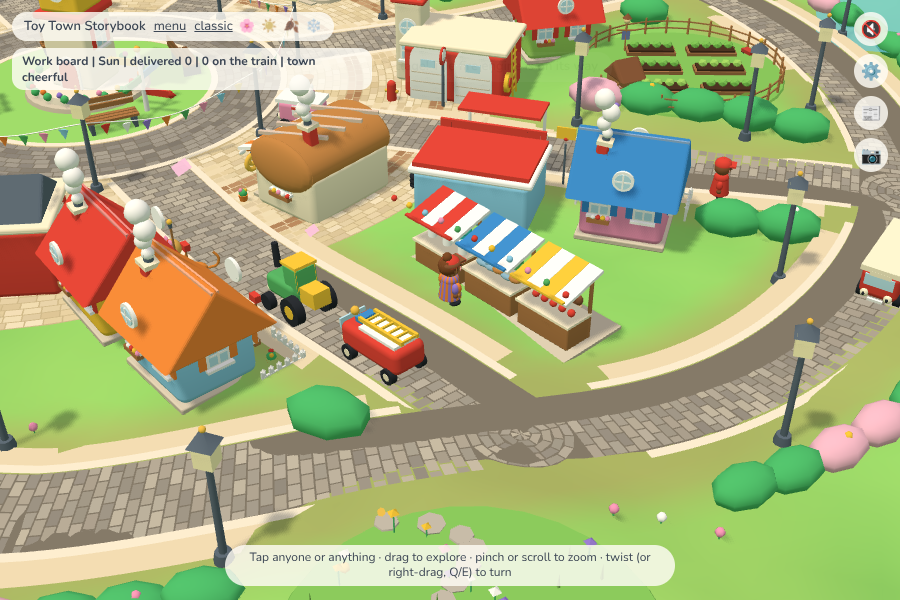
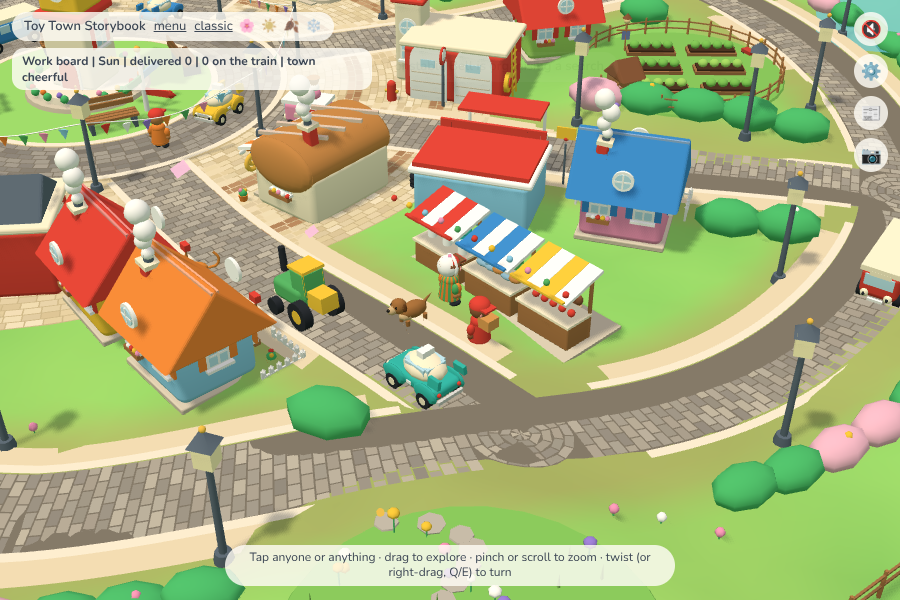
Toy Town Storybook: a steam train with turning wheels, richer stations, softer natural trees (#250)
* Toy Town: follow a resident, feed the ducks, gentle opt-in sound

- Press and hold a resident (mouse or touch, ~0.5 s) to follow them: the camera keeps them centred; a card shows a stable first name, their role and what they are doing; drag or ✕ stops.
- Tap the river: crumbs scatter and the ducks paddle over (they stay on the water).
- New assets/toy-town-sound.js: WebAudio-synthesised honk, bike bell, quack, chirps, balloon pop, hello chime and a sparse birdsong / cricket bed; off by default behind a remembered 🔈 toggle by the zoom controls; no sound files.
- Cache keys sim v31, 3D v50, embed v60.

Claude-Session: https://claude.ai/code/session_016DDzLFPb4BuxMAThu2pji2

* docs(toy-town): Claude DONE — follow, ducks, sound

Claude-Session: https://claude.ai/code/session_016DDzLFPb4BuxMAThu2pji2

* docs(toy-town): Claude START — Moments and real local weather

Claude-Session: https://claude.ai/code/session_016DDzLFPb4BuxMAThu2pji2

* Toy Town: no more gridlock, walkers' whims, Moments and real local weather

- Traffic can no longer deadlock: a mover stuck ~3 s with its own light green first runs out of patience (stops yielding, may edge past crossing traffic, never into its own lane), then turns round, then leaves town for a fresh arrival; only the front of a queue counts; two vehicles on the same spot no longer block each other. Deadlocks that froze ~24 movers for whole runs are gone (longest hold now a red light plus a short queue).
[…]

diff --git a/toy-town-new.html b/toy-town-new.html
@@ -81,49 +81,49 @@ html.ui-off #set,html.ui-off #panel,html.ui-off #paperBtn,html.ui-off #photoBtn,
 #dbg{position:fixed;left:calc(8px + env(safe-area-inset-left,0px));bottom:calc(8px + env(safe-area-inset-bottom,0px));padding:3px 8px;border-radius:8px;background:rgba(0,0,0,.6);color:#fff;font:600 11px/1.3 ui-monospace,Menlo,Consolas,monospace;pointer-events:none;z-index:9}
 html.ui-off #stack,html.ui-off #jobs,html.ui-off #toast,html.ui-off #snd,html.ui-off #chip,html.ui-off #hint,html.ui-off #story,html.ui-off #card{display:none}
 </style>
-<script type="importmap" data-stamp="10d77823ad">
+<script type="importmap" data-stamp="a96788d2c4">
 {"imports":{
   "three":"https://cdn.jsdelivr.net/npm/three@0.187.0/build/three.module.js",
   "three/addons/":"https://cdn.jsdelivr.net/npm/three@0.187.0/examples/jsm/",
-  "./assets/town2/angling.mjs":"./assets/town2/angling.mjs?v=10d77823ad",
-  "./assets/town2/build.mjs":"./assets/town2/build.mjs?v=10d77823ad",
-  "./assets/town2/chest.mjs":"./assets/town2/chest.mjs?v=10d77823ad",
-  "./assets/town2/chronicle.mjs":"./assets/town2/chronicle.mjs?v=10d77823ad",
-  "./assets/town2/curve.mjs":"./assets/town2/curve.mjs?v=10d77823ad",
-  "./assets/town2/def.mjs":"./assets/town2/def.mjs?v=10d77823ad",
-  "./assets/town2/director.mjs":"./assets/town2/director.mjs?v=10d77823ad",
-  "./assets/town2/ecology.mjs":"./assets/town2/ecology.mjs?v=10d77823ad",
-  "./assets/town2/events.mjs":"./assets/town2/events.mjs?v=10d77823ad",
-  "./assets/town2/festival.mjs":"./assets/town2/festival.mjs?v=10d77823ad",
-  "./assets/town2/festscene.mjs":"./assets/town2/festscene.mjs?v=10d77823ad",
-  "./assets/town2/gait.mjs":"./assets/town2/gait.mjs?v=10d77823ad",
-  "./assets/town2/garden.mjs":"./assets/town2/garden.mjs?v=10d77823ad",
-  "./assets/town2/graph.mjs":"./assets/town2/graph.mjs?v=10d77823ad",
-  "./assets/town2/inspect.mjs":"./assets/town2/inspect.mjs?v=10d77823ad",
-  "./assets/town2/limbs.mjs":"./assets/town2/limbs.mjs?v=10d77823ad",
-  "./assets/town2/lives.mjs":"./assets/town2/lives.mjs?v=10d77823ad",
-  "./assets/town2/memory.mjs":"./assets/town2/memory.mjs?v=10d77823ad",
-  "./assets/town2/mystery.mjs":"./assets/town2/mystery.mjs?v=10d77823ad",
-  "./assets/town2/nature.mjs":"./assets/town2/nature.mjs?v=10d77823ad",
-  "./assets/town2/needs.mjs":"./assets/town2/needs.mjs?v=10d77823ad",
-  "./assets/town2/paper.mjs":"./assets/town2/paper.mjs?v=10d77823ad",
-  "./assets/town2/quality.mjs":"./assets/town2/quality.mjs?v=10d77823ad",
-  "./assets/town2/saga.mjs":"./assets/town2/saga.mjs?v=10d77823ad",
-  "./assets/town2/sail.mjs":"./assets/town2/sail.mjs?v=10d77823ad",
-  "./assets/town2/settings.mjs":"./assets/town2/settings.mjs?v=10d77823ad",
-  "./assets/town2/sim.mjs":"./assets/town2/sim.mjs?v=10d77823ad",
-  "./assets/town2/sky.mjs":"./assets/town2/sky.mjs?v=10d77823ad",
-  "./assets/town2/smoke.mjs":"./assets/town2/smoke.mjs?v=10d77823ad",
-  "./assets/town2/sound.mjs":"./assets/town2/sound.mjs?v=10d77823ad",
-  "./assets/town2/stories.mjs":"./assets/town2/stories.mjs?v=10d77823ad",
-  "./assets/town2/track.mjs":"./assets/town2/track.mjs?v=10d77823ad",
-  "./assets/town2/treasure.mjs":"./assets/town2/treasure.mjs?v=10d77823ad",
-  "./assets/town2/vote.mjs":"./assets/town2/vote.mjs?v=10d77823ad",
-  "./assets/town2/weather.mjs":"./assets/town2/weather.mjs?v=10d77823ad",
-  "./assets/town2/weather3d.mjs":"./assets/town2/weather3d.mjs?v=10d77823ad",
-  "./assets/town2/wild3d.mjs":"./assets/town2/wild3d.mjs?v=10d77823ad",
-  "./assets/town2/wildlife.mjs":"./assets/town2/wildlife.mjs?v=10d77823ad",
-  "./assets/town2/wildscene.mjs":"./assets/town2/wildscene.mjs?v=10d77823ad"
+  "./assets/town2/angling.mjs":"./assets/town2/angling.mjs?v=a96788d2c4",
+  "./assets/town2/build.mjs":"./assets/town2/build.mjs?v=a96788d2c4",
+  "./assets/town2/chest.mjs":"./assets/town2/chest.mjs?v=a96788d2c4",
+  "./assets/town2/chronicle.mjs":"./assets/town2/chronicle.mjs?v=a96788d2c4",
+  "./assets/town2/curve.mjs":"./assets/town2/curve.mjs?v=a96788d2c4",
+  "./assets/town2/def.mjs":"./assets/town2/def.mjs?v=a96788d2c4",
+  "./assets/town2/director.mjs":"./assets/town2/director.mjs?v=a96788d2c4",
+  "./assets/town2/ecology.mjs":"./assets/town2/ecology.mjs?v=a96788d2c4",
+  "./assets/town2/events.mjs":"./assets/town2/events.mjs?v=a96788d2c4",
+  "./assets/town2/festival.mjs":"./assets/town2/festival.mjs?v=a96788d2c4",
+  "./assets/town2/festscene.mjs":"./assets/town2/festscene.mjs?v=a96788d2c4",
+  "./assets/town2/gait.mjs":"./assets/town2/gait.mjs?v=a96788d2c4",
+  "./assets/town2/garden.mjs":"./assets/town2/garden.mjs?v=a96788d2c4",
+  "./assets/town2/graph.mjs":"./assets/town2/graph.mjs?v=a96788d2c4",
+  "./assets/town2/inspect.mjs":"./assets/town2/inspect.mjs?v=a96788d2c4",
+  "./assets/town2/limbs.mjs":"./assets/town2/limbs.mjs?v=a96788d2c4",
+  "./assets/town2/lives.mjs":"./assets/town2/lives.mjs?v=a96788d2c4",
+  "./assets/town2/memory.mjs":"./assets/town2/memory.mjs?v=a96788d2c4",
+  "./assets/town2/mystery.mjs":"./assets/town2/mystery.mjs?v=a96788d2c4",
+  "./assets/town2/nature.mjs":"./assets/town2/nature.mjs?v=a96788d2c4",
+  "./assets/town2/needs.mjs":"./assets/town2/needs.mjs?v=a96788d2c4",
+  "./assets/town2/paper.mjs":"./assets/town2/paper.mjs?v=a96788d2c4",
+  "./assets/town2/quality.mjs":"./assets/town2/quality.mjs?v=a96788d2c4",
+  "./assets/town2/saga.mjs":"./assets/town2/saga.mjs?v=a96788d2c4",
+  "./assets/town2/sail.mjs":"./assets/town2/sail.mjs?v=a96788d2c4",
+  "./assets/town2/settings.mjs":"./assets/town2/settings.mjs?v=a96788d2c4",
+  "./assets/town2/sim.mjs":"./assets/town2/sim.mjs?v=a96788d2c4",
+  "./assets/town2/sky.mjs":"./assets/town2/sky.mjs?v=a96788d2c4",
+  "./assets/town2/smoke.mjs":"./assets/town2/smoke.mjs?v=a96788d2c4",
+  "./assets/town2/sound.mjs":"./assets/town2/sound.mjs?v=a96788d2c4",
+  "./assets/town2/stories.mjs":"./assets/town2/stories.mjs?v=a96788d2c4",
+  "./assets/town2/track.mjs":"./assets/town2/track.mjs?v=a96788d2c4",
+  "./assets/town2/treasure.mjs":"./assets/town2/treasure.mjs?v=a96788d2c4",
+  "./assets/town2/vote.mjs":"./assets/town2/vote.mjs?v=a96788d2c4",
+  "./assets/town2/weather.mjs":"./assets/town2/weather.mjs?v=a96788d2c4",
+  "./assets/town2/weather3d.mjs":"./assets/town2/weather3d.mjs?v=a96788d2c4",
+  "./assets/town2/wild3d.mjs":"./assets/town2/wild3d.mjs?v=a96788d2c4",
+  "./assets/town2/wildlife.mjs":"./assets/town2/wildlife.mjs?v=a96788d2c4",
+  "./assets/town2/wildscene.mjs":"./assets/town2/wildscene.mjs?v=a96788d2c4"
 }}
 </script>
 </head>
@@ -145,7 +145,7 @@ html.ui-off #stack,html.ui-off #jobs,html.ui-off #toast,html.ui-off #snd,html.ui
 <div id="fail"><div>The new town could not start.<br><a href="toy-town.html">Open the current town</a>, or try a hard refresh (Ctrl+F5).<br><small id="why"></small><br><small>If it mentions WebGL, turn on hardware acceleration in the browser's settings (in Edge: edge://settings/system).</small></div></div>
 <script>if(/[?&]clean=1\b/.test(location.search))document.documentElement.classList.add('ui-off');</script>
 <script type="module">
-  import('./assets/town2/main.mjs?v=10d77823ad').catch(e => { console.error(e); document.getElementById('why').textContent = (e && (e.name + ': ' + e.message)) || String(e); document.getElementById('fail').style.display = 'flex'; });
+  import('./assets/town2/main.mjs?v=a96788d2c4').catch(e => { console.error(e); document.getElementById('why').textContent = (e && (e.name + ': ' + e.message)) || String(e); document.getElementById('fail').style.display = 'flex'; });
 </script>
 </body>
 </html>

diff --git a/TOY_TOWN_NEW_SPEC.md b/TOY_TOWN_NEW_SPEC.md
@@ -223,6 +223,10 @@ Buildings are drawn 10% smaller (`BUILD_SCALE` .72); the layout solver in `def.m
 
 `chronicle.mjs` writes each finished day down (weather, peak bloom and bees, honey, eggs, milk, catches, the lowest sea, shortages, the stories told, peace) and turns it into a cause chain for the paper: rain -> the meadow -> the bees and honey -> the hens and cows -> the bakery (or its shortage) -> the fishermen -> the stories. Only links that really happened are told. It also picks a headline (never the same as yesterday's when another fits) and a follow-up for the next morning (`followUp`: a shortage of eggs gives `henhelp`, of milk `cowhelp`, honey `honeycakes`, a resting sea `seaquiet`, a bloom `bloomwalk`). The last fourteen days are saved with the saga, so a new visit remembers. `director.mjs` picks the day's story: a story with `needs` (honey cakes, plain rolls, plenty of eggs, a bloom walk, a resting sea, a great catch, mice in the barn) is only told when the land has earned it and is then three times as likely; the follow-up gets a head start; a resident's own untold story is favoured; the rest as before (least told first). The paper's Today and Yesterday pages show "The Town Chronicle" with the chain and "Tomorrow: ...".
 
+## 4g. Stations, the train and the plants (natural, not boxes)
+
+The train is a tank engine with brass-banded boiler, side tanks, funnel, steam and sand domes, an arched-roof cab, cowcatcher and buffers; its driving wheels (black tyre, painted centre, spokes, brass hub) and coupling rods turn with the distance the train covers (`limbs.mjs` kinds 7 and 8, fed by `stepGait` with the train's own gait in `main.mjs`), and the carriages (arched roof with a clerestory, framed windows, doors, end rails, buffers, bogies) and the planked goods wagon turn theirs too. The central station is brick with two wings, a tiled roof, a bell turret and weather vane, a clock porch over double doors, canopies on iron posts with scalloped valances over the wings, benches, lamps, a luggage trolley, churns and flower tubs. Each of the six halts has its own station hut (wall and roof colours by halt, door, windows with flower boxes or shutters, chimney, every other one with a little lookout room), a textured platform edge, a lamp, a fence, a bench, a name board and flowers. Trees are many soft leaf clusters (`crown` in `build.mjs`) over a trunk that flares at the root and sends branches into the crown; pines have six irregular tiers; birches hang clumps from thin white branches. Buds, bushes and meadow flowers are small rounded blobs (no more faceted gems). The picture costs about 100k more triangles (713k at the default view, limit 800k).
+
 ## 5. Art rules
 
 - Fat, rounded, slightly wonky. No sharp corners: `bag.box` is a rounded box; roofs overhang.

diff --git a/TOY_TOWN_COLLAB.md b/TOY_TOWN_COLLAB.md
@@ -1409,3 +1409,13 @@ A `START` does not prohibit parallel edits. Avoid stepping on each other's uncom
 - **Not verified**: a real phone; autumn and winter chains were only read in logic; whether the nine new stories feel varied after many weeks (only eight days were soaked).
 - **Still to come**: F) player influence (plant flowers, feed hens, rest the sea, beehive).
 
+
+### 2026-11-12 · Claude · START (new storybook town, follow-up 25: richer natural stations, a real steam train, softer more natural trees and plants)
+- **Base**: master dfa7248. **Request (owner, caps)**: "make stations richer and natural, and the same with the train rather than a box; the trees and other things are more of polygons: bring the naturality and realistic". **Plan**: the train becomes a tank engine (boiler with brass bands, side tanks, funnel, domes, cab with arched roof, cowcatcher, buffers, spoked driving wheels and coupling rods that turn with the distance travelled, via the limb shader) with arched-roof carriages and a planked wagon; the central station (brick, wings, tiled roof, clock porch, canopies on iron posts, trolley, churns, lamps) and the six halts (a station hut each, with a lookout room on every other one, fences, lamps, flowers); trees built from many soft leaf clusters over flared trunks with branches, layered irregular pines; buds, bushes and meadow flowers are rounded, not faceted gems.
+
+### 2026-11-12 · Claude · DONE (new storybook town, follow-up 25: stations, train and plants)
+- **Request (owner)**: richer natural stations and train, and trees and other things less polygonal. **Done**: spec section 4g.
+- **Tests**: logic and browser suites pass (93 draw calls, 713k triangles); close-ups of the engine and carriage, the central station (front and back), a halt and the orchard checked by hand; the train's wheel phase was read back from the page while it moved.
+- **Slip caught on the way**: a scripted edit matched the wrong `STATIONS.forEach` and cut the railway function out of build.mjs; it was restored from git and re-applied to the right place before anything was committed.
+- **Not verified**: a real phone; autumn and winter trees; every halt up close (only one); the train smoke still comes from the old funnel position.
+
